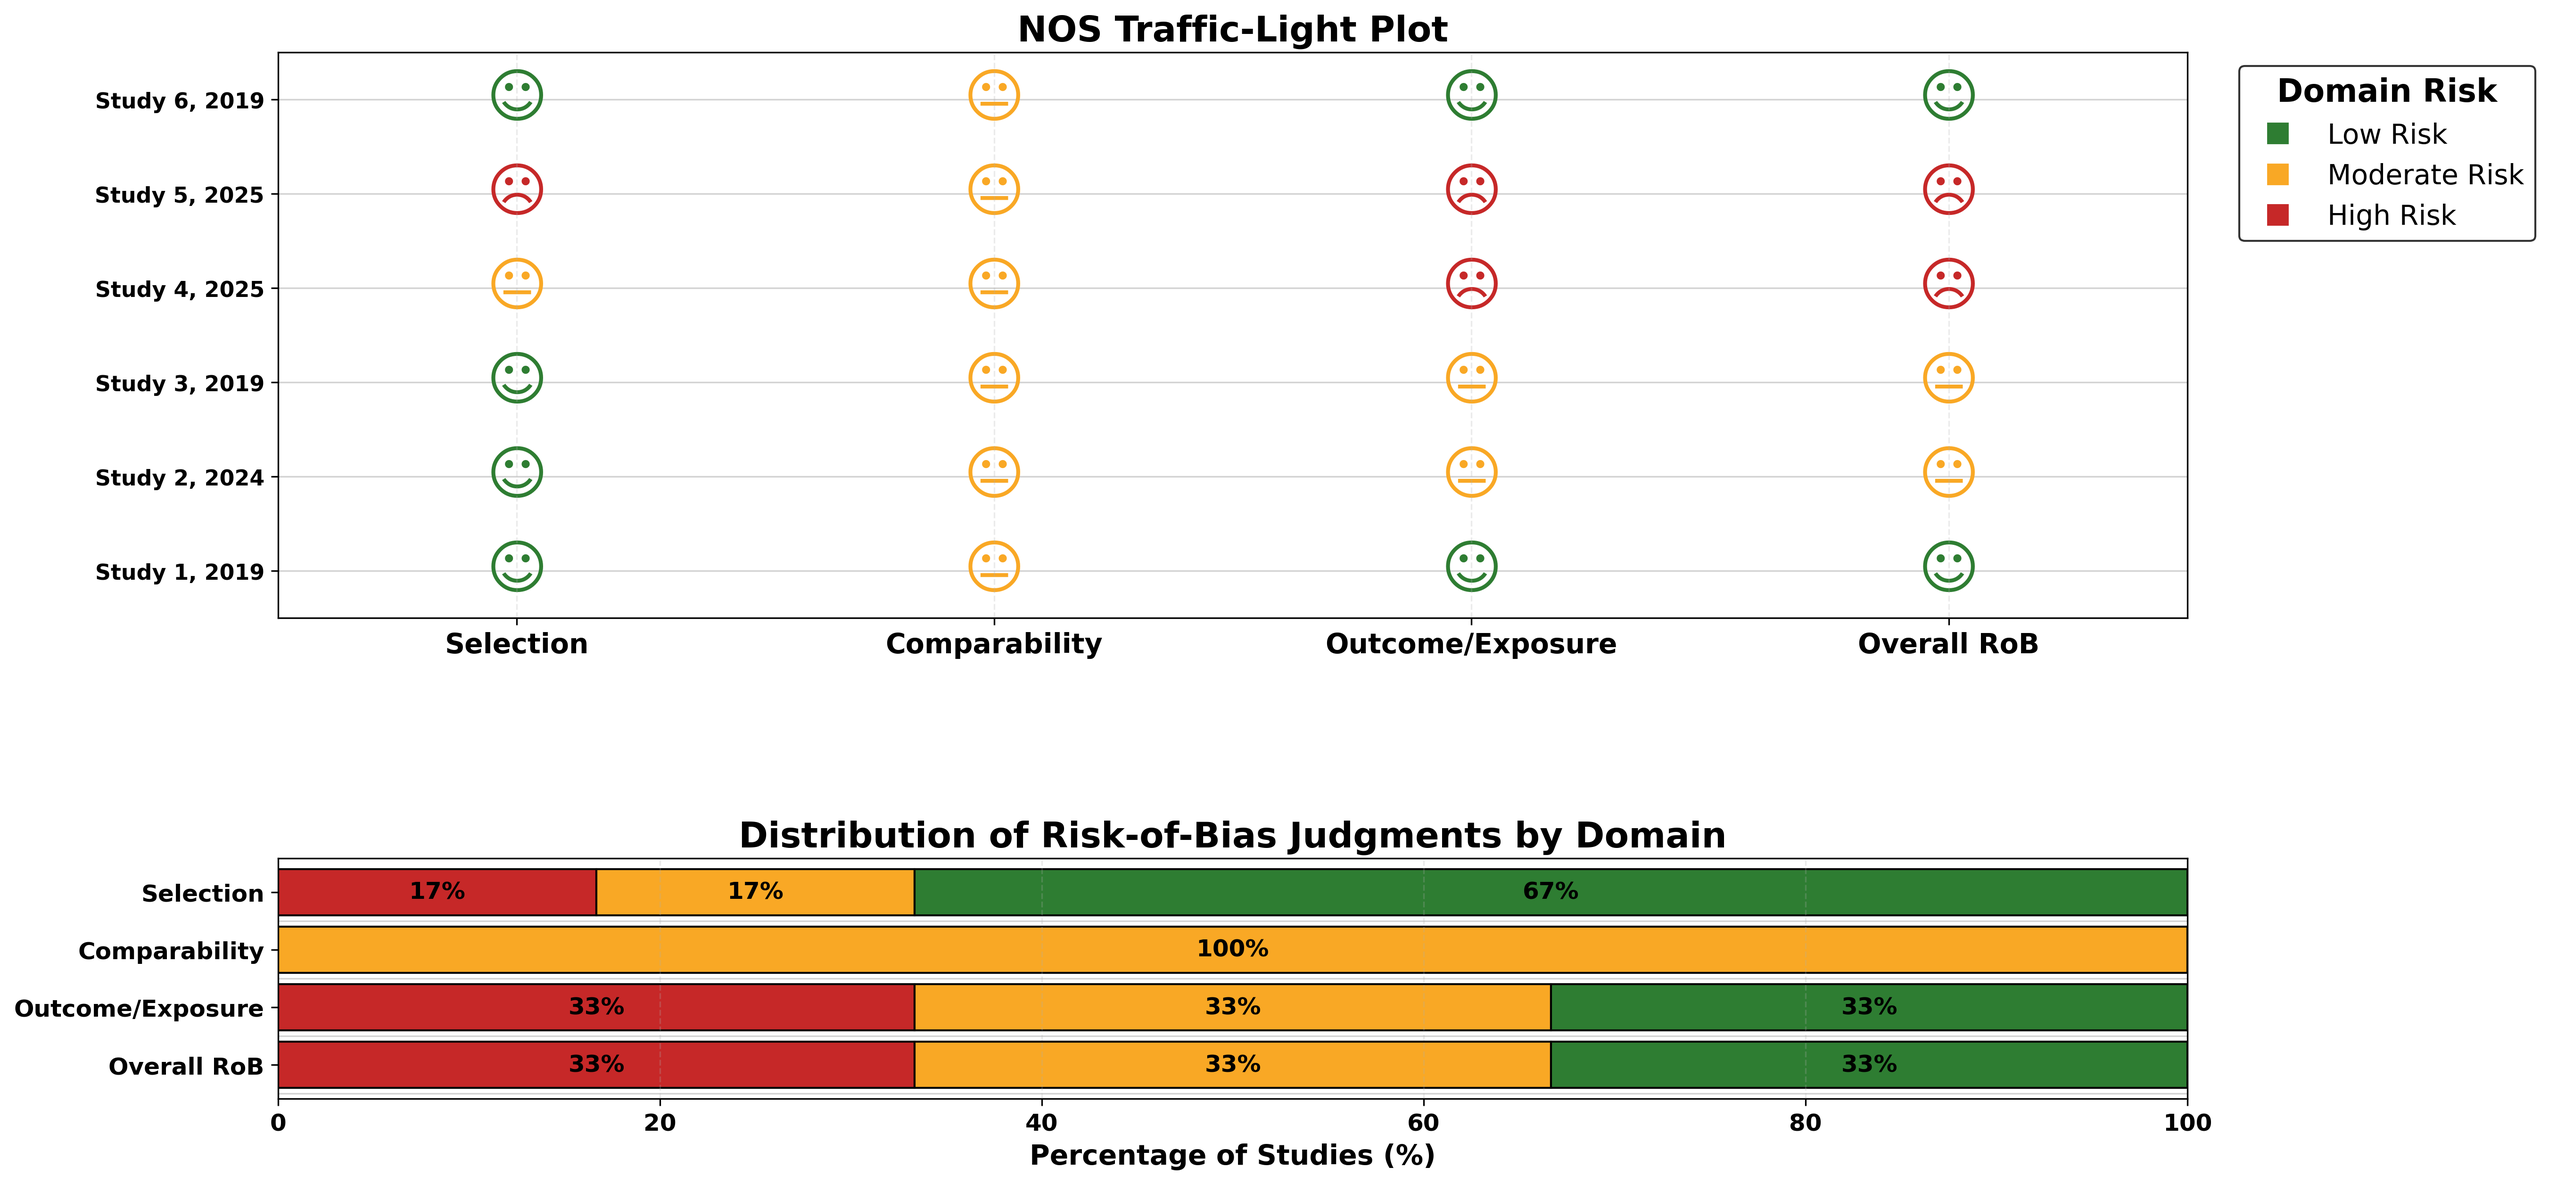
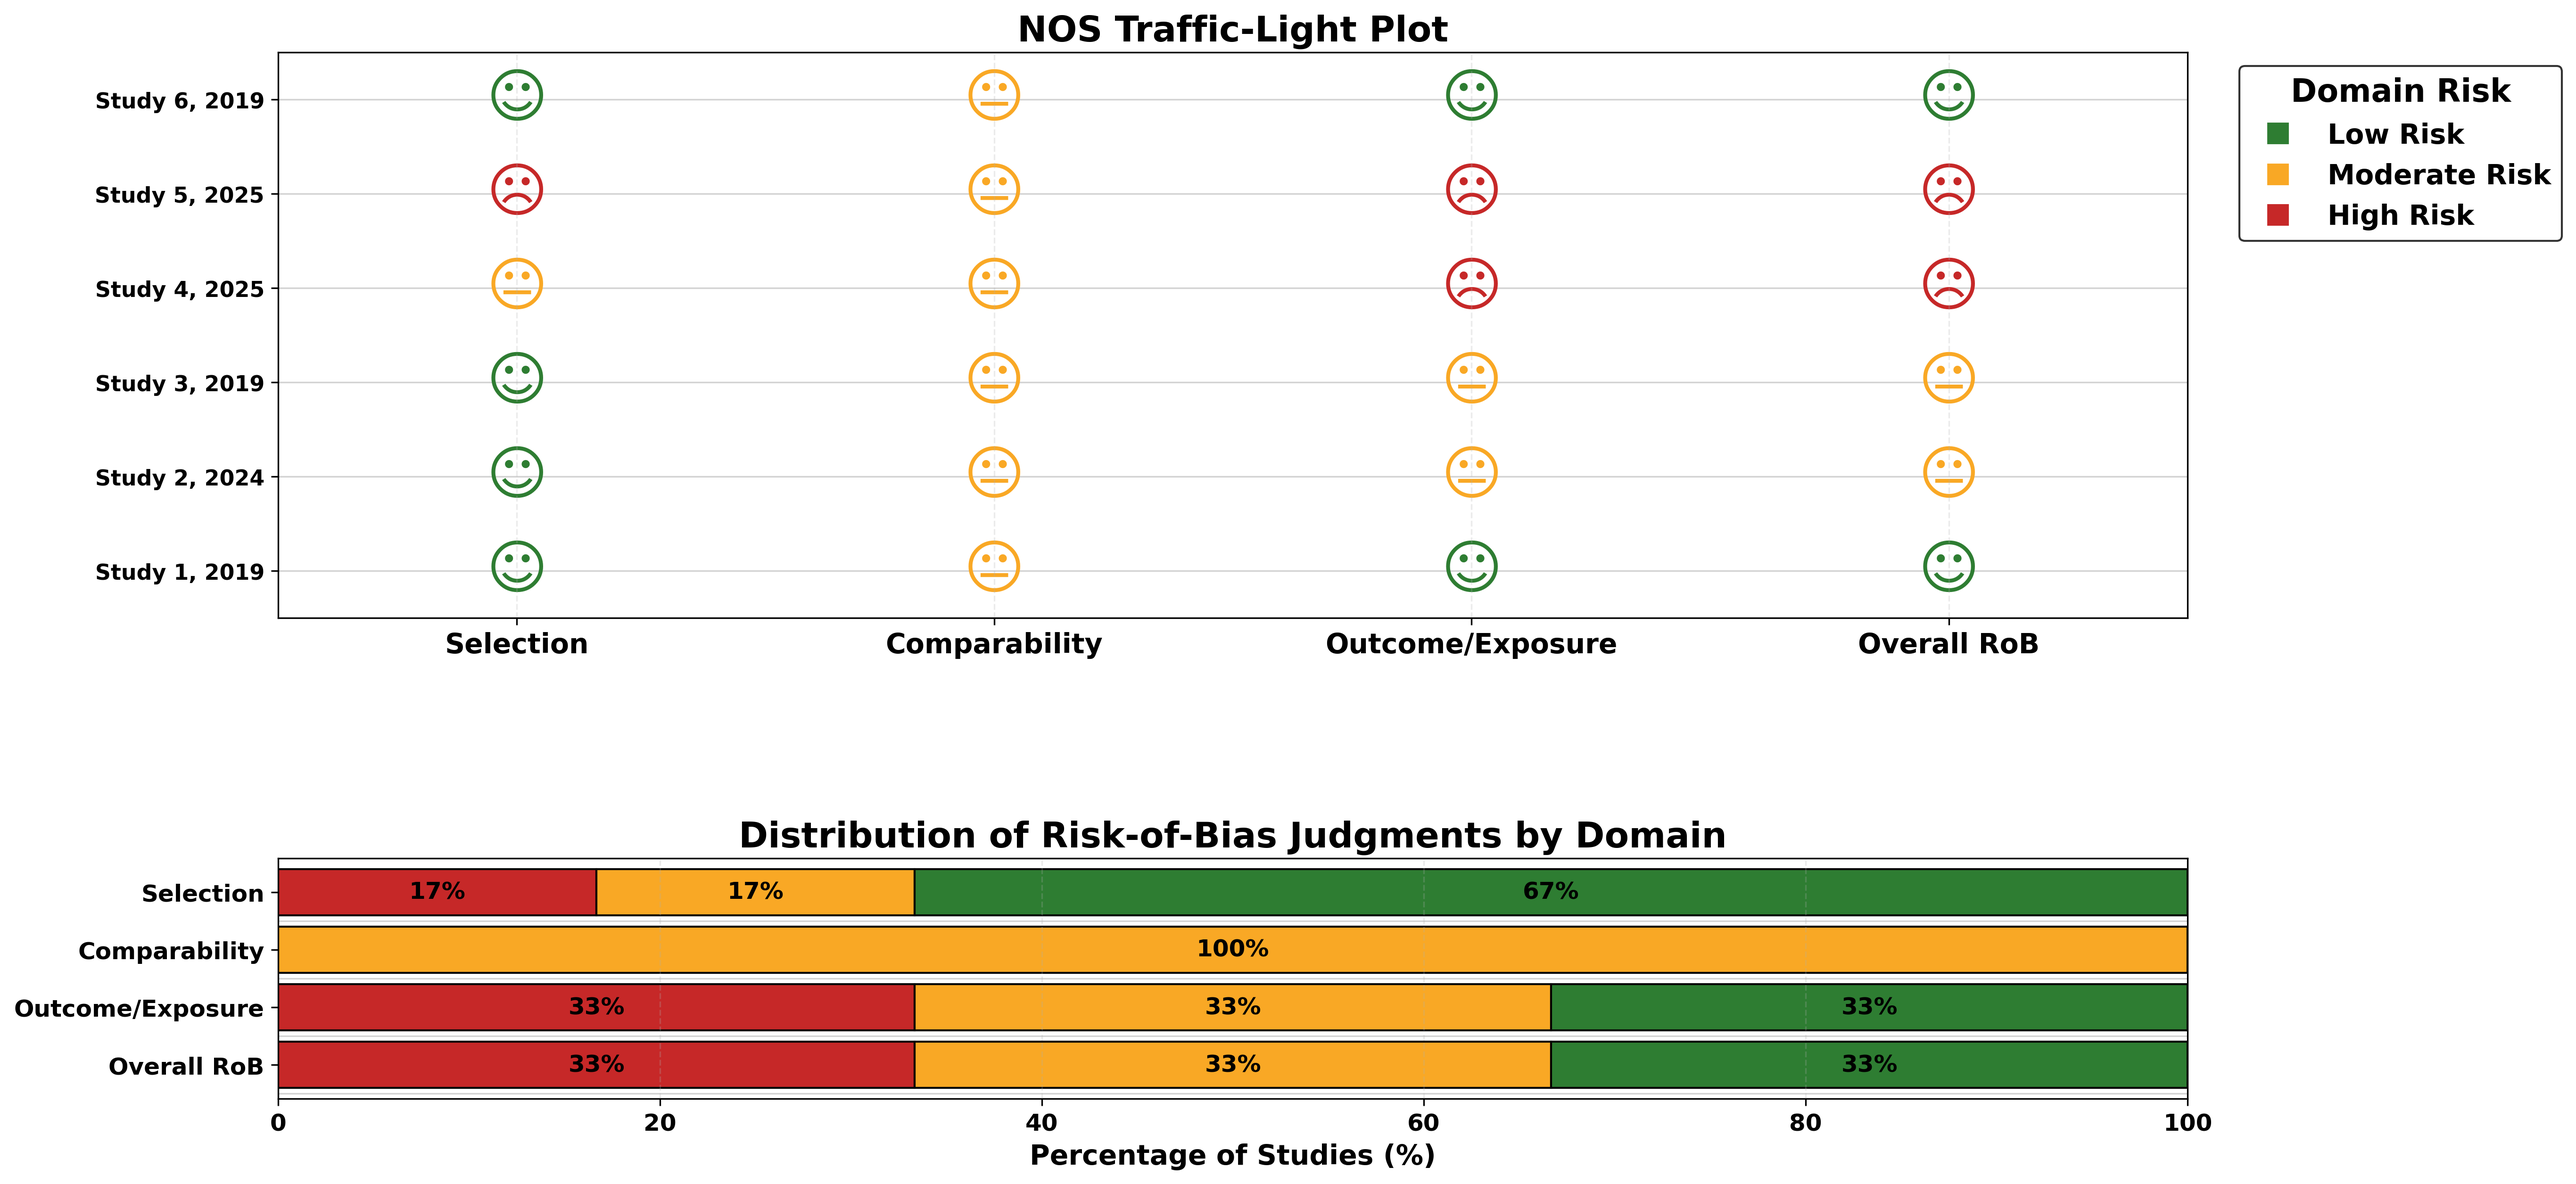
a minor fix

diff --git a/nos_plot.py b/nos_plot.py
@@ -256,7 +256,7 @@ def professional_plot(df: pd.DataFrame, output_file: str, theme: str = "default"
     )
     plt.setp(legend.get_title(), fontweight='bold')
     for text in legend.get_texts():
-        text.set_fontweight='bold'  
+        text.set_fontweight('bold')  
 
     valid_ext = [".png", ".pdf", ".svg", ".eps"]
     ext = os.path.splitext(output_file)[1].lower()
